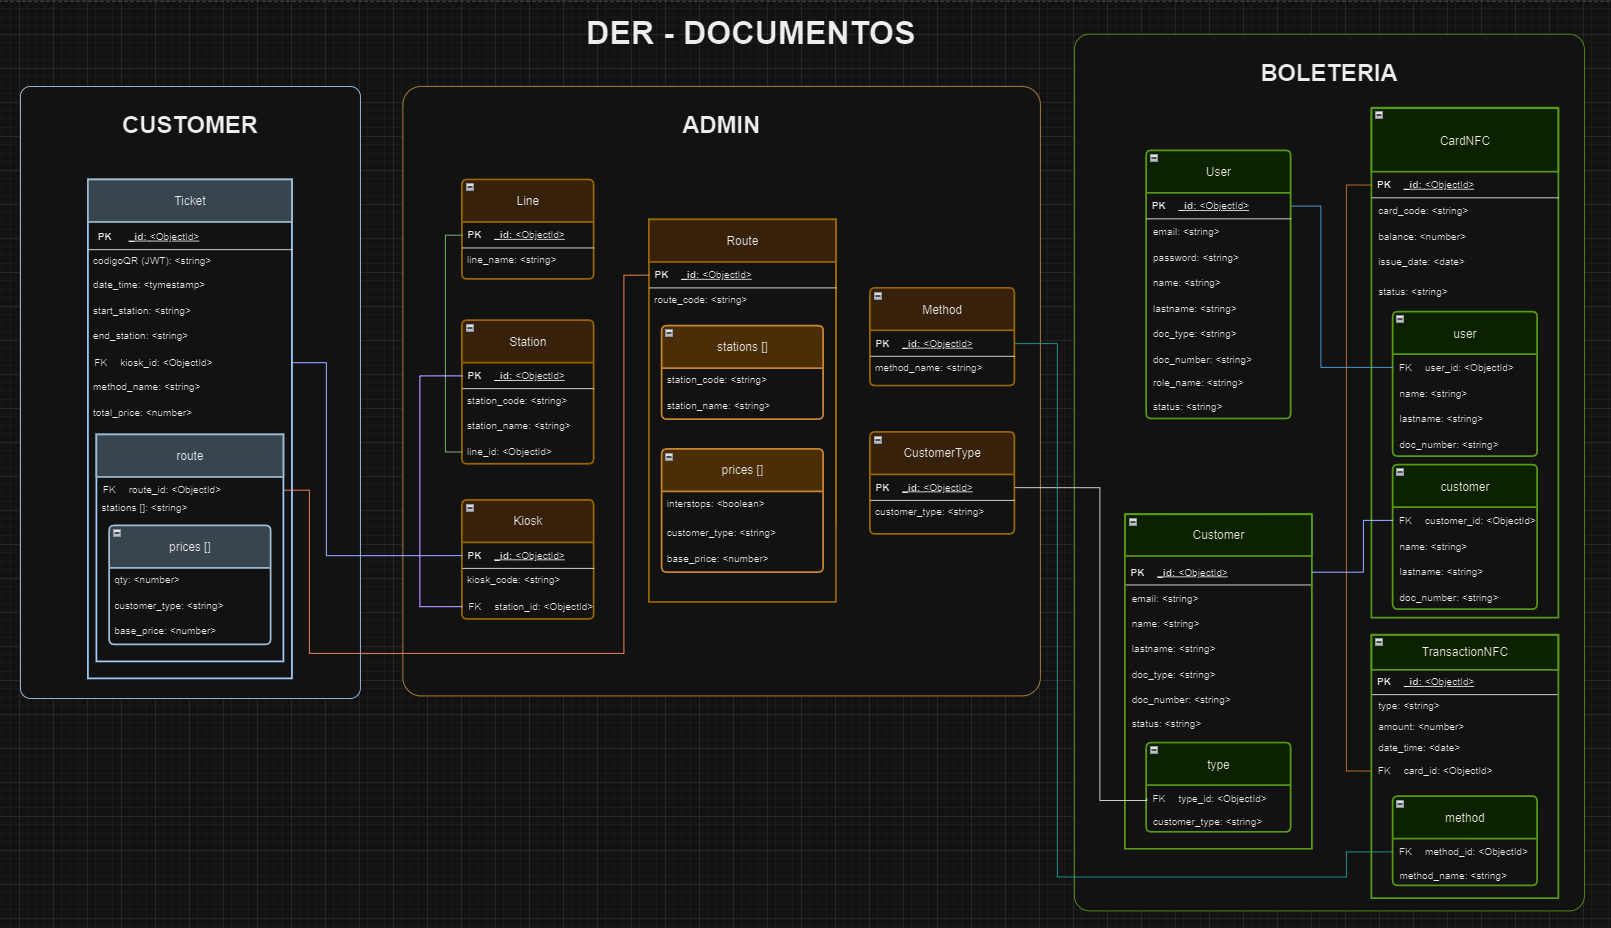
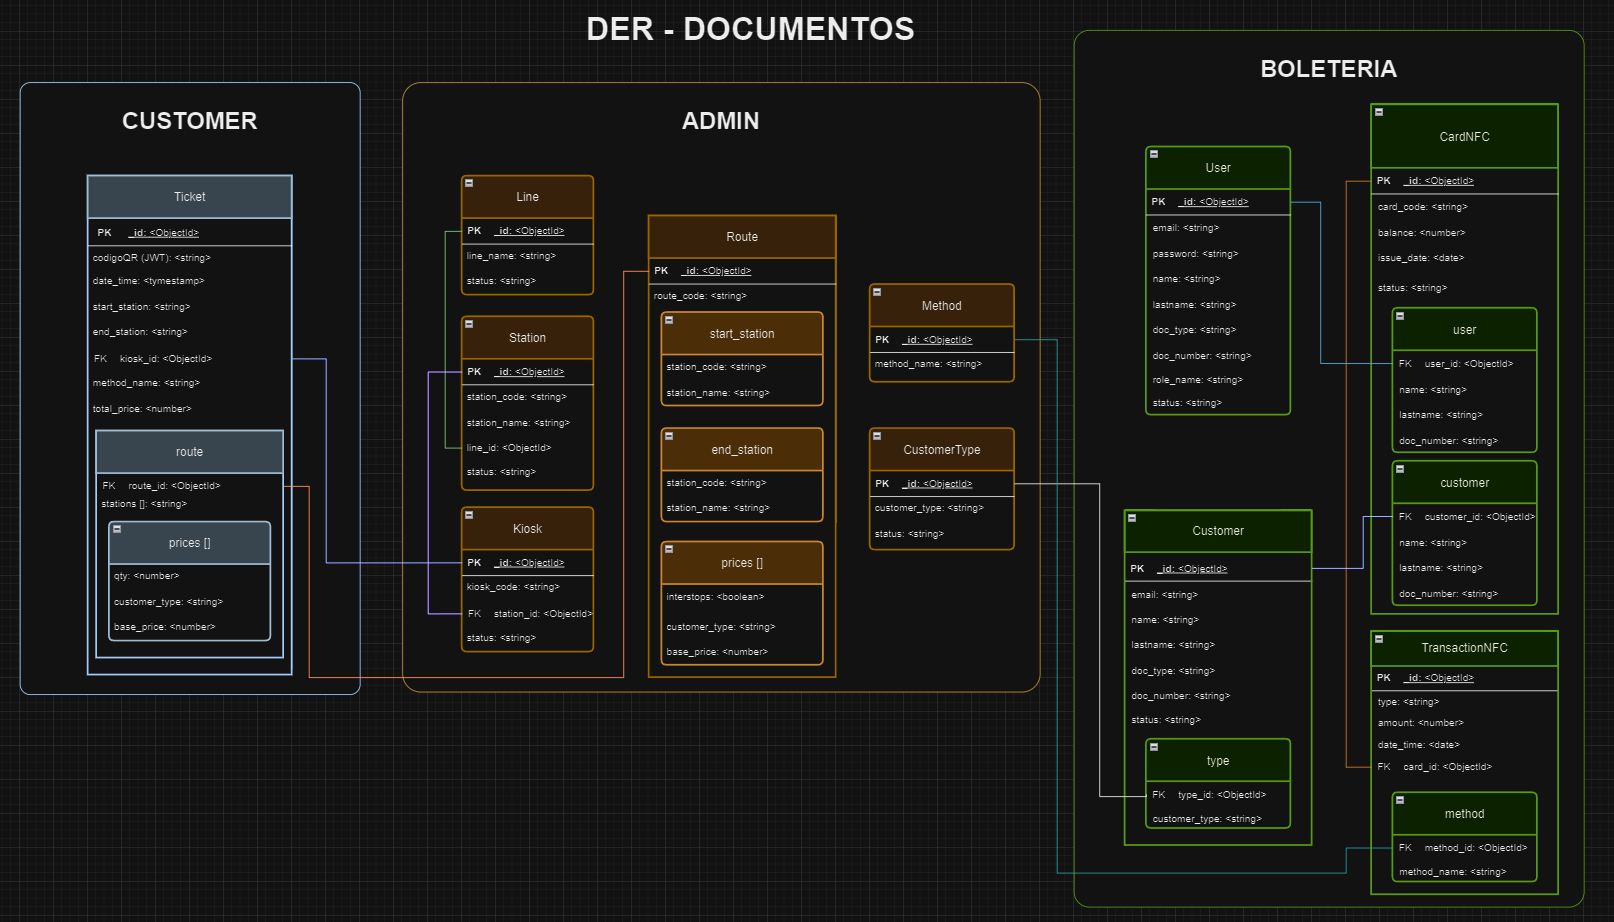
work: create route by station range

diff --git a/server/repositories/RouteRepository.ts b/server/repositories/RouteRepository.ts
@@ -1,5 +1,6 @@
 import Route, { RouteAttributes } from '../database/models/Route'
 import Station from '../database/models/Station'
+import ApiError from '../errors/ApiError'
 import BaseRepository from './BaseRepository'
 
 export default class RouteRepository extends BaseRepository<RouteAttributes> {
@@ -11,39 +12,66 @@ export default class RouteRepository extends BaseRepository<RouteAttributes> {
   }
 
   async createByStationRange(body: Record<string, any>) {
-    const { stations, prices } = body
-    const [startStation, endStation] = stations
+    const { start_code, end_code, prices } = body
 
-    // Obtener la línea a la que pertenecen las estaciones
-    const line = await Station.findOne({ station_code: startStation.station_code })
+    const start_line = await Station.findOne({ station_code: start_code })
+      .select('line_id')
+      .lean()
+      .exec()
+    const end_line = await Station.findOne({ station_code: end_code })
       .select('line_id')
       .lean()
       .exec()
 
-    if (!line) {
-      throw new Error('La estación de inicio no pertenece a ninguna línea')
+    if (!start_line) {
+      throw new ApiError({
+        name: 'MODEL_NOT_FOUND_ERROR',
+        message: 'La estación inicial no pertenece a ninguna línea',
+        status: 404,
+        code: 'ERR_MNF',
+      })
+    }
+    if (!end_line) {
+      throw new ApiError({
+        name: 'MODEL_NOT_FOUND_ERROR',
+        message: 'La estación final no pertenece a ninguna línea',
+        status: 404,
+        code: 'ERR_MNF',
+      })
+    }
+    if (start_line.line_id.toString() !== end_line.line_id.toString()) {
+      throw new ApiError({
+        name: 'INVALID_DATA_ERROR',
+        message: 'Las estaciones no pertenecen a la misma línea',
+        status: 400,
+        code: 'ERR_ID',
+      })
     }
 
-    // Obtener todas las estaciones de la línea ordenadas por station_code de forma ascendente
     const filteredStations = await Station.find({
-      line_id: line.line_id,
-      station_code: { $in: [startStation.station_code, endStation.station_code] },
+      line_id: start_line.line_id,
+      station_code: { $gte: start_code, $lte: end_code },
     })
       .sort({ station_code: 1 })
       .lean()
       .exec()
 
-    console.log(filteredStations)
+    const route_code = 'route_code'
+    /*const start_code = start_station.station_name
+      .toUpperCase()
+      .split(' ')
+      .map((item: string) => item[0])
+      .join('')
+    const end_code = end_station.station_name
+      .toUpperCase()
+      .split(' ')
+      .map((item: string) => item[0])
+      .join('')
 
     // Generar el route_code
-    const route_code = filteredStations.map(station => station.station_code).join('-')
+    const route_code = [start_code, end_code].join('-')*/
 
     // Crear la ruta en la base de datos
-    /*const newRoute = await this.create({
-      route_code,
-      stations: filteredStations,
-      prices,
-    })*/
 
     return { route_code, stations: filteredStations, prices }
   }

diff --git a/server/middlewares/requestSchemas.ts b/server/middlewares/requestSchemas.ts
@@ -50,15 +50,14 @@ export const updateKioskSchema = Joi.object({
 // Route
 export const createRouteSchema = Joi.object({
   route_code: Joi.string().min(3).max(10).required(),
-  stations: Joi.array()
-    .min(2)
-    .items(
-      Joi.object({
-        station_code: Joi.string().min(3).max(10).required(),
-        station_name: Joi.string().min(3).max(50).required(),
-      }),
-    )
-    .required(),
+  start_stations: Joi.object({
+    station_code: Joi.string().min(3).max(10).required(),
+    station_name: Joi.string().min(3).max(50).required(),
+  }).required(),
+  end_stations: Joi.object({
+    station_code: Joi.string().min(3).max(10).required(),
+    station_name: Joi.string().min(3).max(50).required(),
+  }).required(),
   prices: Joi.array()
     .min(1)
     .items(
@@ -73,14 +72,14 @@ export const createRouteSchema = Joi.object({
 
 export const updateRouteSchema = Joi.object({
   route_code: Joi.string().min(3).max(10),
-  stations: Joi.array()
-    .min(2)
-    .items(
-      Joi.object({
-        station_code: Joi.string().min(3).max(10),
-        station_name: Joi.string().min(3).max(50),
-      }),
-    ),
+  start_stations: Joi.object({
+    station_code: Joi.string().min(3).max(10).required(),
+    station_name: Joi.string().min(3).max(50).required(),
+  }),
+  end_stations: Joi.object({
+    station_code: Joi.string().min(3).max(10).required(),
+    station_name: Joi.string().min(3).max(50).required(),
+  }),
   prices: Joi.array()
     .min(1)
     .items(
@@ -93,14 +92,8 @@ export const updateRouteSchema = Joi.object({
 }).or('route_code', 'stations', 'prices')
 
 export const createRouteStationRangeSchema = Joi.object({
-  stations: Joi.array()
-    .length(2)
-    .items(
-      Joi.object({
-        station_code: Joi.string().min(3).max(10).required(),
-      }),
-    )
-    .required(),
+  start_code: Joi.string().min(3).max(10).required(),
+  end_code: Joi.string().min(3).max(10).required(),
   prices: Joi.array()
     .min(1)
     .items(

diff --git a/server/database/models/Route.ts b/server/database/models/Route.ts
@@ -1,6 +1,6 @@
 import { Schema, model, Document } from 'mongoose'
 
-type Stations = {
+type Station = {
   station_code: string
   station_name: string
 }
@@ -13,7 +13,8 @@ type Prices = {
 export type RouteEntity = {
   id?: string | any
   route_code: string
-  stations: Stations[]
+  start_station: Station
+  end_station: Station
   prices: Prices[]
 }
 
@@ -29,30 +30,39 @@ const RouteSchema = new Schema<RouteAttributes>(
       required: true,
     },
 
-    stations: {
-      type: [
-        {
-          station_code: {
-            type: String,
-            uppercase: true,
-            trim: true,
-            required: true,
-          },
-          station_name: {
-            type: String,
-            uppercase: true,
-            trim: true,
-            required: true,
-          },
+    start_station: {
+      type: {
+        station_code: {
+          type: String,
+          uppercase: true,
+          trim: true,
+          required: true,
         },
-      ],
-      required: true,
-      validate: {
-        validator: (value: Stations[]) => {
-          return value.length > 1
+        station_name: {
+          type: String,
+          uppercase: true,
+          trim: true,
+          required: true,
         },
-        message: 'El array "stations" debe contener al menos dos ítems.',
       },
+      required: true,
+    },
+    end_station: {
+      type: {
+        station_code: {
+          type: String,
+          uppercase: true,
+          trim: true,
+          required: true,
+        },
+        station_name: {
+          type: String,
+          uppercase: true,
+          trim: true,
+          required: true,
+        },
+      },
+      required: true,
     },
 
     prices: {

diff --git a/server/resources/RouteResource.ts b/server/resources/RouteResource.ts
@@ -6,7 +6,8 @@ class RouteResource extends BaseResource<RouteAttributes, RouteEntity>() {
     const routeResource: RouteEntity = {
       id: this.instance.id,
       route_code: this.instance.route_code,
-      stations: this.instance.stations,
+      start_station: this.instance.start_station,
+      end_station: this.instance.end_station,
       prices: this.instance.prices,
     }
 

diff --git a/server/routes/v1/routes/controller.ts b/server/routes/v1/routes/controller.ts
@@ -46,7 +46,7 @@ export const createRouteByStarionRange = async (
 ) => {
   try {
     const repository = new RouteRepository()
-    const routeResource = repository.createByStationRange(req.body)
+    const routeResource = await repository.createByStationRange(req.body)
 
     // res.status(201).json({ route: routeResource.item() })
     res.status(201).json(routeResource)

diff --git a/server/types.d.ts b/server/types.d.ts
@@ -6,6 +6,7 @@ type ErrorName =
   | 'METHOD_NOT_IMPLEMENTED'
   | 'FILTER_BY_ERROR'
   | 'REFERENCE_ERROR'
+  | 'INVALID_DATA_ERROR'
 
 type ErrorCode =
   | 'ERR_MNF'
@@ -15,6 +16,7 @@ type ErrorCode =
   | 'ERR_VALID'
   | 'ERR_FTB'
   | 'ERR_REF'
+  | 'ERR_ID'
 
 type ValidationError = {
   error: {
